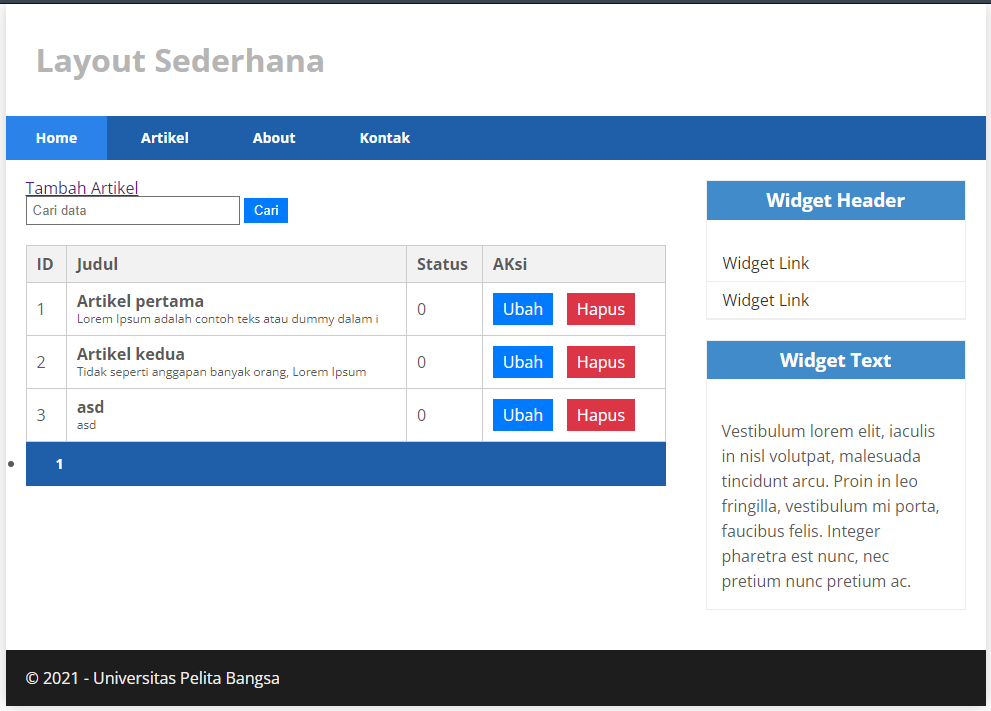
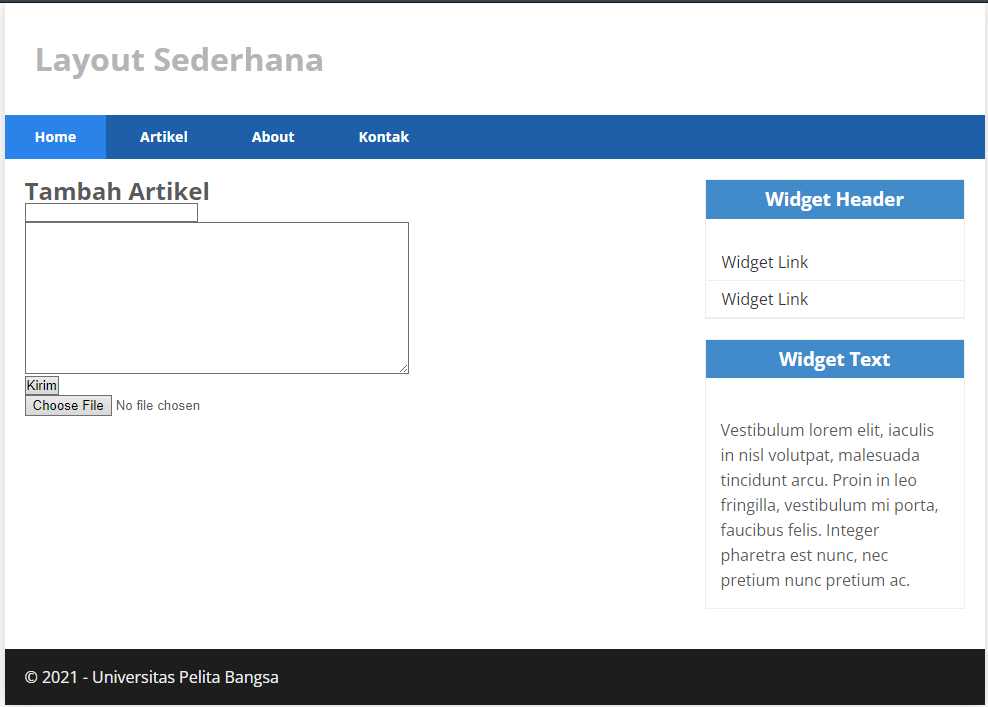
First commit

diff --git a/app/Controllers/Artikel.php b/app/Controllers/Artikel.php
@@ -47,11 +47,14 @@ class Artikel extends BaseController
         $validation->setRules(['judul' => 'required']);
         $isDataValid = $validation->withRequest($this->request)->run();
         if ($isDataValid) {
+            $file = $this->request->getFile('gambar');
+            $file->move(ROOTPATH . 'public/gambar');
             $artikel = new ArtikelModel();
             $artikel->insert([
                 'judul' => $this->request->getPost('judul'),
                 'isi' => $this->request->getPost('isi'),
                 'slug' => url_title($this->request->getPost('judul')),
+                'gambar' => $file->getName(),
             ]);
             return redirect('admin/artikel');
         }

diff --git a/app/Views/artikel/form_add.php b/app/Views/artikel/form_add.php
@@ -1,12 +1,17 @@
 <?= $this->include('template/header'); ?>
 <h2><?= $title; ?></h2>
-<form action="" method="post">
+<form action="" method="post" enctype="multipart/form-data">
     <p>
         <input type="text" name="judul">
     </p>
     <p>
         <textarea name="isi" cols="50" rows="10"></textarea>
     </p>
-    <p><input type="submit" value="Kirim" class="btn btn-large"></p>
+    <p>
+        <input type="submit" value="Kirim" class="btn btn-large">
+    </p>
+    <p>
+        <input type="file" name="gambar">
+    </p>
 </form>
 <?= $this->include('template/footer'); ?>

diff --git a/README.md b/README.md
@@ -5,6 +5,6 @@ NIM : 312110219\
 Kelas : TI.21.A1\
 Mata kuliah : Pemograman Web 2
 
-## Pagination dan Pencarian
+## Upload File di Code Igniter 4
 ![](ss/ss1.png)
 
